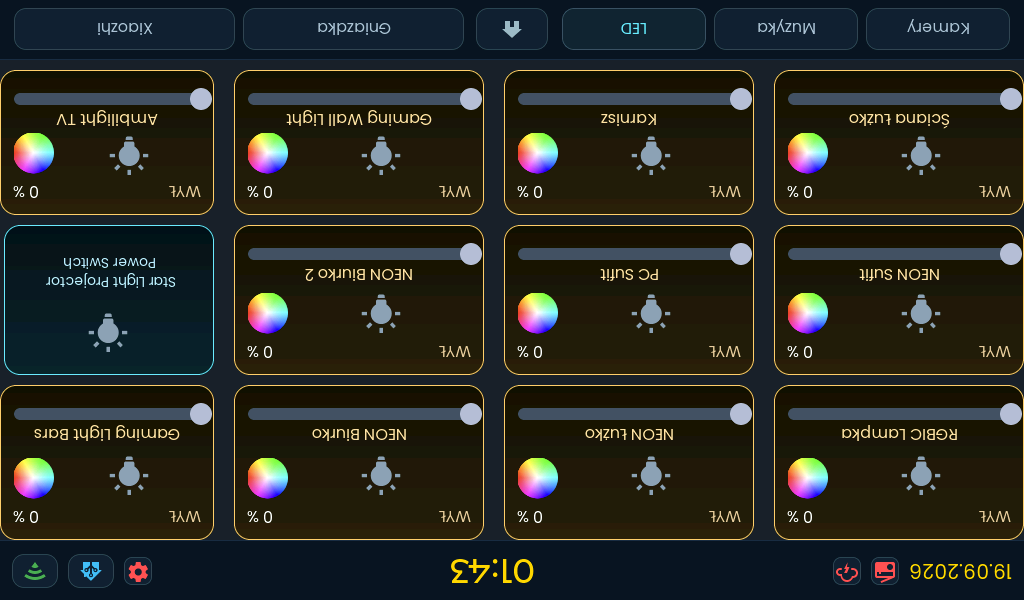
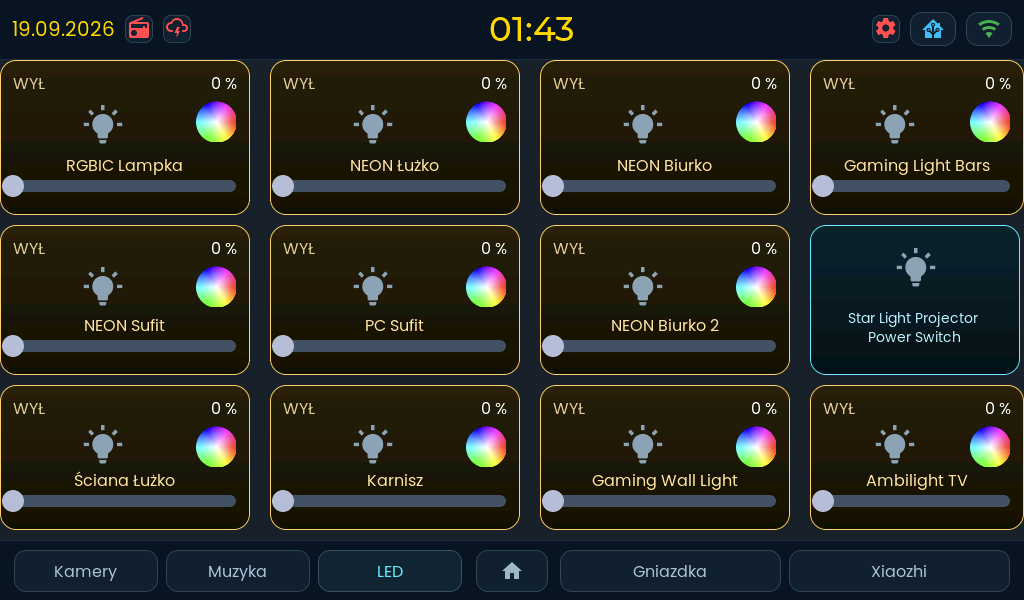
Fix panel screenshot orientation (180 deg) for the 7B variant
The 7B LCD glass is mounted upside down in the housing, so the firmware
rotates the UI by 180 degrees in software (LV_DISPLAY_ROTATION_180). The
screenshot endpoint dumps the framebuffer exactly as it is fed to the
glass, so the raw BMP comes out rotated 180 degrees compared with what a
viewer sees on the panel.

- rotated the panel-01..panel-09 captures back to the viewing orientation
- rebuilt panel-10-bottom-nav.png from the bottom 145 px of the living-room
  capture, i.e. the real bottom navigation bar with the active page
  highlighted (it previously showed the top bar)
- documented the framebuffer/rotation detail in README.md and README.pl.md

diff --git a/README.pl.md b/README.pl.md
@@ -455,6 +455,11 @@ Wszystkie zrzuty pobrane bezpośrednio z działającego panelu (`GET /api/screen
 1024 × 600 px) i pokazują aktualny wygląd interfejsu — kolory tła, tapety i kafelki zależą od
 konfiguracji, więc u Ciebie będą inne.
 
+W wariancie 7B szybka LCD jest w obudowie zamontowana do góry nogami, dlatego firmware obraca
+interfejs o 180° w sofcie (`LV_DISPLAY_ROTATION_180`). Endpoint zrzutu zwraca bufor ramki dokładnie
+tak, jak jest podawany na szybkę — surowy BMP wychodzi więc obrócony o 180°; zdjęcia poniżej zostały
+obrócone z powrotem do orientacji, w której widzi je użytkownik.
+
 | Strona „Salon” | Oświetlenie RGB | Gniazdka |
 |---|---|---|
 | ![Strona Salon — kafelki](images/screenshots/panel-01-salon.png) | ![Oświetlenie RGB — kolory](images/screenshots/panel-02-led.png) | ![Sterowanie gniazdkami](images/screenshots/panel-03-sockets.png) |

diff --git a/README.md b/README.md
@@ -458,6 +458,11 @@ All captures were taken straight from the running panel (`GET /api/screenshot.bm
 1024 × 600 px) and show the current UI — background colours, wallpapers and tiles depend on your
 configuration, so yours will look different.
 
+On the 7B variant the LCD glass is mounted upside down, so the panel firmware rotates the UI by
+180° in software (`LV_DISPLAY_ROTATION_180`). The capture endpoint dumps the framebuffer exactly as
+it is fed to the glass, which is why the raw BMP comes out rotated 180°; the images below have been
+rotated back to the viewing orientation.
+
 | “Living room” page | RGB lighting | Sockets |
 |---|---|---|
 | ![Living room page — tiles](images/screenshots/panel-01-salon.png) | ![RGB lighting — colours](images/screenshots/panel-02-led.png) | ![Socket control](images/screenshots/panel-03-sockets.png) |
